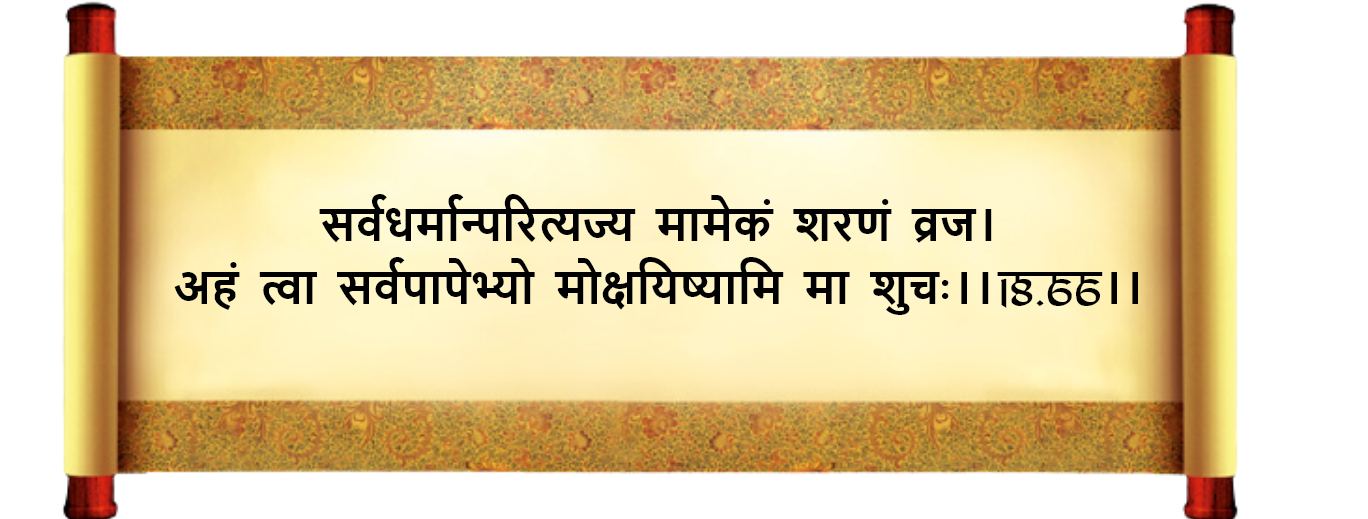
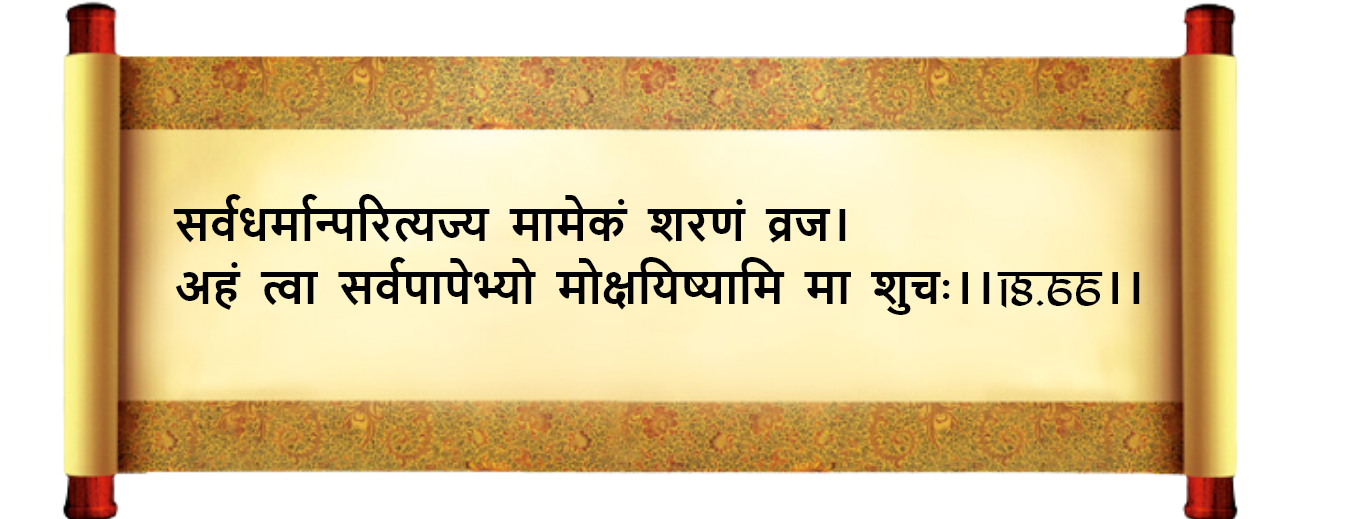
Shloka aligned

Changed region(s): [[0.1228, 0.3699, 0.7368, 0.4624], [0.1228, 0.4933, 0.7368, 0.6166], [0.7982, 0.5241, 0.8289, 0.5857]]

diff --git a/resources/views/home/our-mission.blade.php b/resources/views/home/our-mission.blade.php
@@ -51,7 +51,8 @@
             <div class="our-mission__banner d-flex justify-content-center mb20">
                 <img src="img/our-mission-banner.jpg" alt="" class="our-mission__banner-fix">
             </div>
-            <p class="our-mission__description mb0">Share learnings with maximum people to increase happiness quotient. </p>
+            <h1 class="testomoials-carousel__name pt20">Share learnings with maximum people to increase happiness quotient.</h1>
+            <p class="our-mission__description mb0"> </p>
             <p class="our-mission__description mb0"></p>
             <div class="d-flex justify-content-center pt30">
                 <a href="#" class="btn btn-orange">Read more</a>
